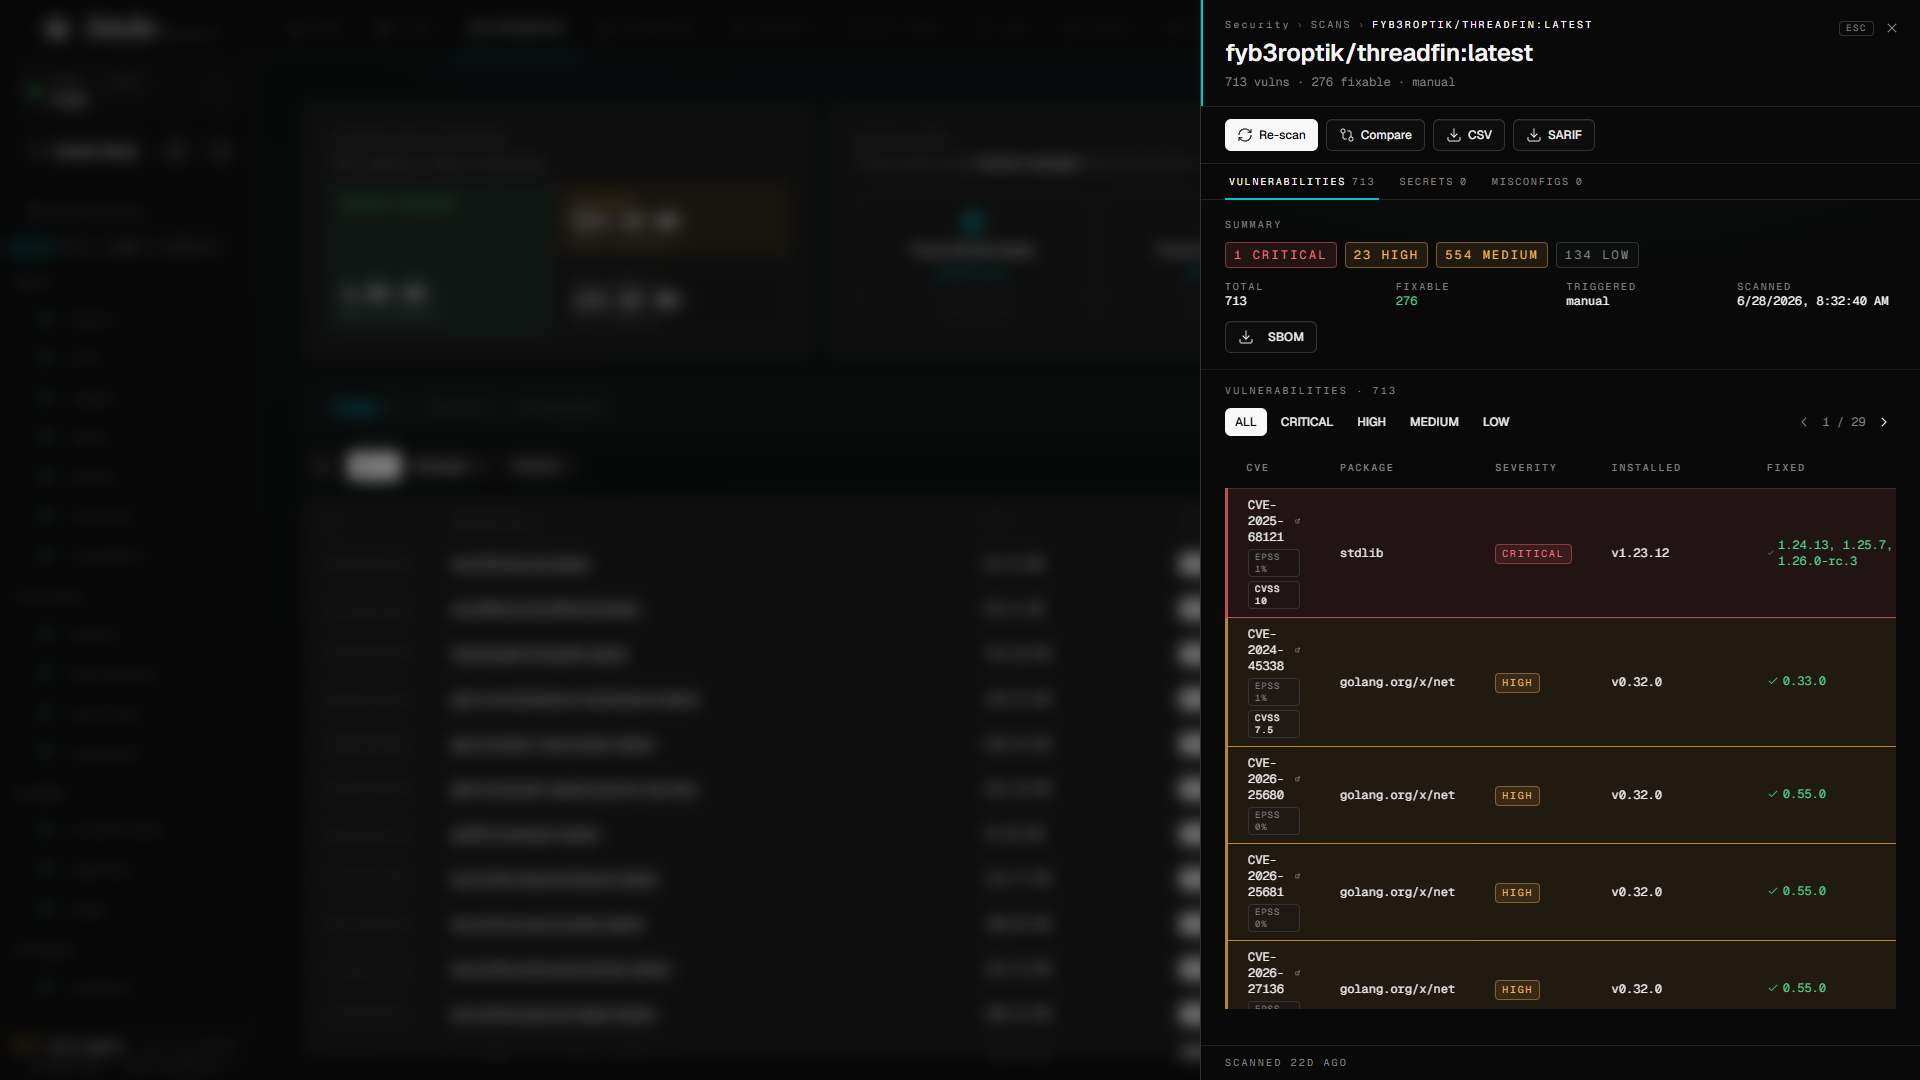
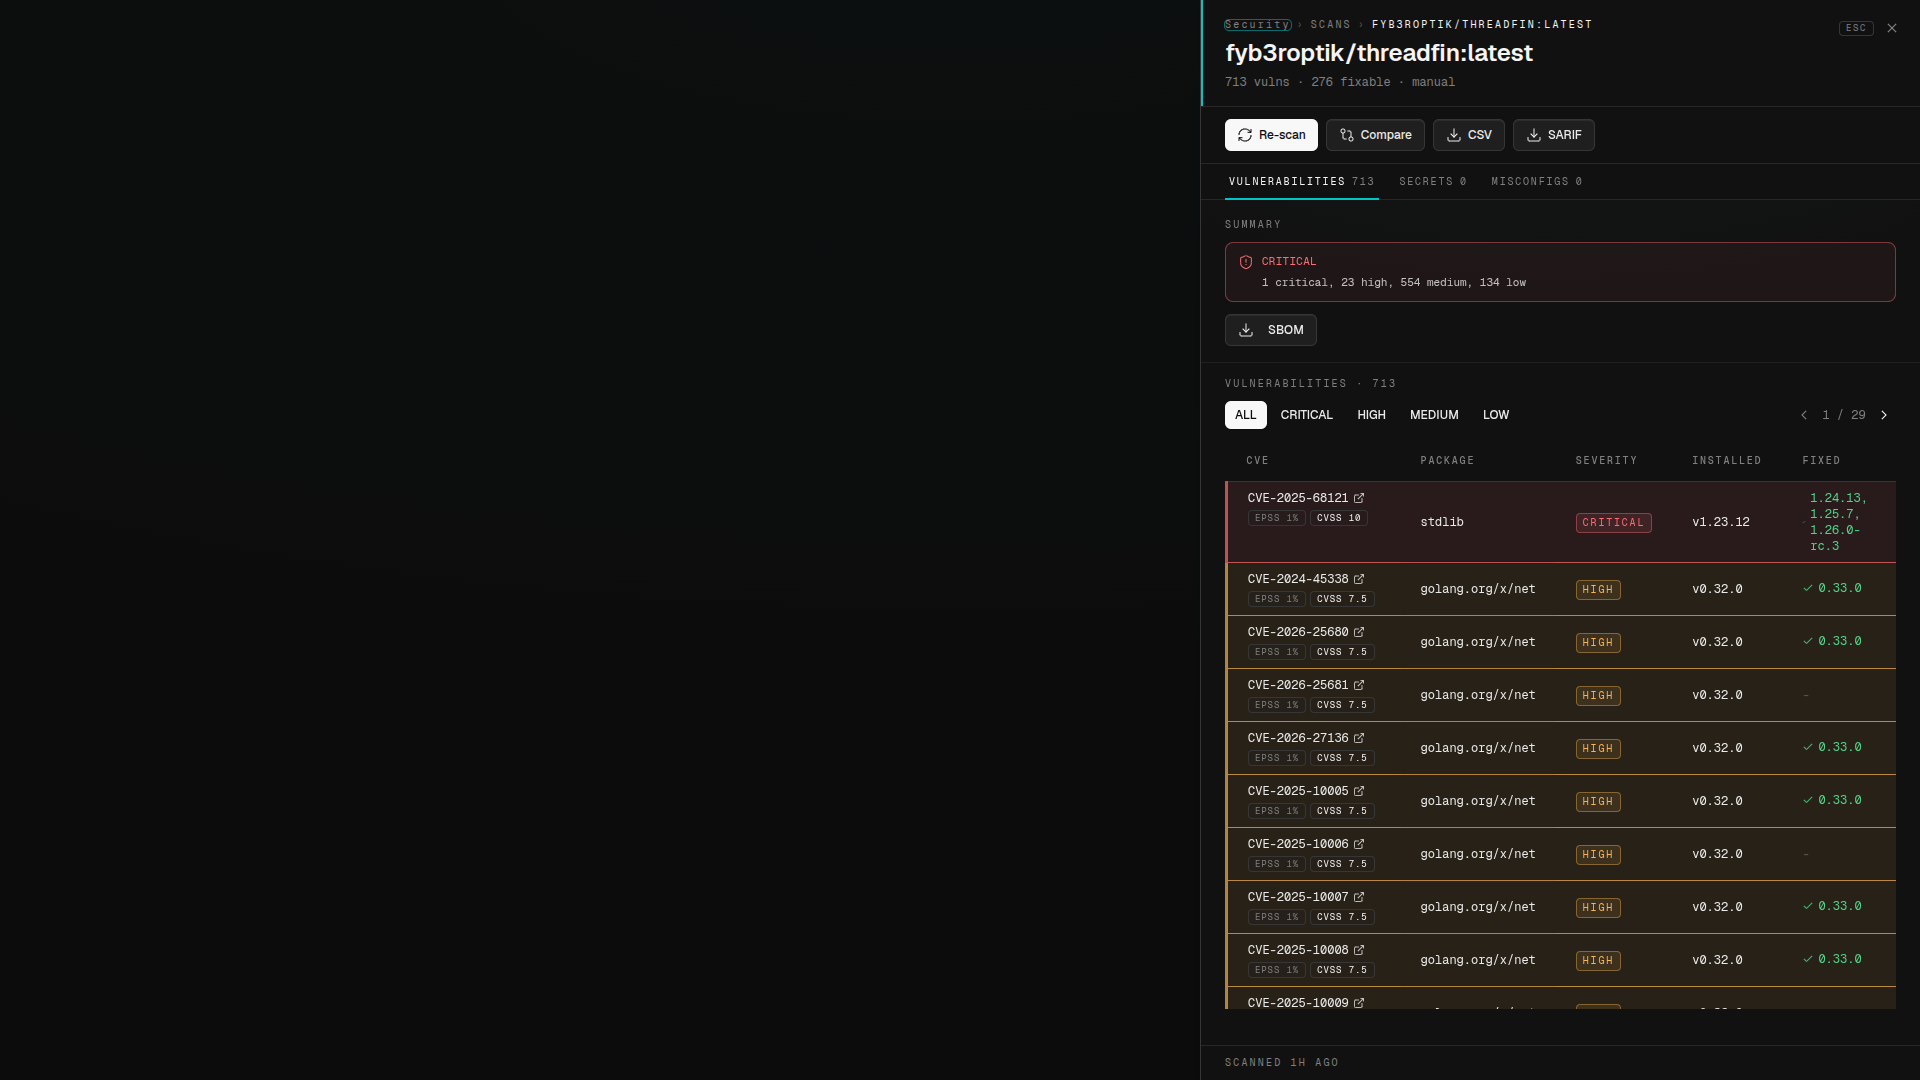
fix(security): keep the scan sheet's table and header consistent for config-only scans
A scan without the vulnerability scanner now says so in the empty table and the header,
instead of 'No vulnerabilities found.' and '0 vulns'.
Recapture the scan-details docs screenshot for the status block layout.

diff --git a/frontend/src/components/VulnerabilityScanSheet.tsx b/frontend/src/components/VulnerabilityScanSheet.tsx
@@ -6,7 +6,7 @@ import { BusyButton } from '@/components/ui/busy-button';
 import { Skeleton } from '@/components/ui/skeleton';
 import { StatusPath } from '@/components/ui/status-path';
 import { useVisualBusy } from '@/hooks/useVisualBusy';
-import { vulnScanAnswer } from '@/lib/vulnScanAnswer';
+import { ranVulnerabilityScanner, vulnScanAnswer } from '@/lib/vulnScanAnswer';
 import {
   Table,
   TableBody,
@@ -629,7 +629,9 @@ export function VulnerabilityScanSheet({
 
   const meta = scan ? (
     <span className="inline-flex flex-wrap items-center gap-2">
-      {scan.total_vulnerabilities} vulns · {scan.fixable_count} fixable · {scan.triggered_by}
+      {ranVulnerabilityScanner(scan)
+        ? `${scan.total_vulnerabilities} vulns · ${scan.fixable_count} fixable · ${scan.triggered_by}`
+        : `No vulnerability scan · ${scan.triggered_by}`}
       {scan.publicly_exposed === true && (
         <EvidenceTag tone="warn">Network exposed</EvidenceTag>
       )}
@@ -850,7 +852,11 @@ export function VulnerabilityScanSheet({
                   {pageItems.length === 0 ? (
                     <div className="text-center text-sm text-muted-foreground py-12">
                       {details.length === 0
-                        ? (scan.status === 'completed' ? 'No vulnerabilities found.' : 'No results for this scan.')
+                        ? (scan.status !== 'completed'
+            ? 'No results for this scan.'
+            : ranVulnerabilityScanner(scan)
+              ? 'No vulnerabilities found.'
+              : 'No vulnerability scanner ran for this scan.')
                         : 'No vulnerabilities match the selected filter.'}
                     </div>
                   ) : (

diff --git a/frontend/src/components/__tests__/VulnerabilityScanSheet.suppress.test.tsx b/frontend/src/components/__tests__/VulnerabilityScanSheet.suppress.test.tsx
@@ -170,6 +170,11 @@ describe('VulnerabilityScanSheet answer', () => {
     const answer = await screen.findByTestId('scan-answer');
     expect(answer).toHaveTextContent('not scanned for vulnerabilities');
     expect(answer).not.toHaveTextContent('No vulnerabilities were found');
+    // Nothing else in the sheet may say the opposite: neither the table nor the header.
+    expect(screen.queryByText('No vulnerabilities found.')).not.toBeInTheDocument();
+    expect(screen.getByText('No vulnerability scanner ran for this scan.')).toBeInTheDocument();
+    expect(screen.queryByText(/0 vulns/)).not.toBeInTheDocument();
+    expect(screen.getByText(/No vulnerability scan ·/)).toBeInTheDocument();
   });
 
   it('shows a Retry Answer when the scan cannot be loaded, keeps it locked during the retry, and recovers', async () => {
